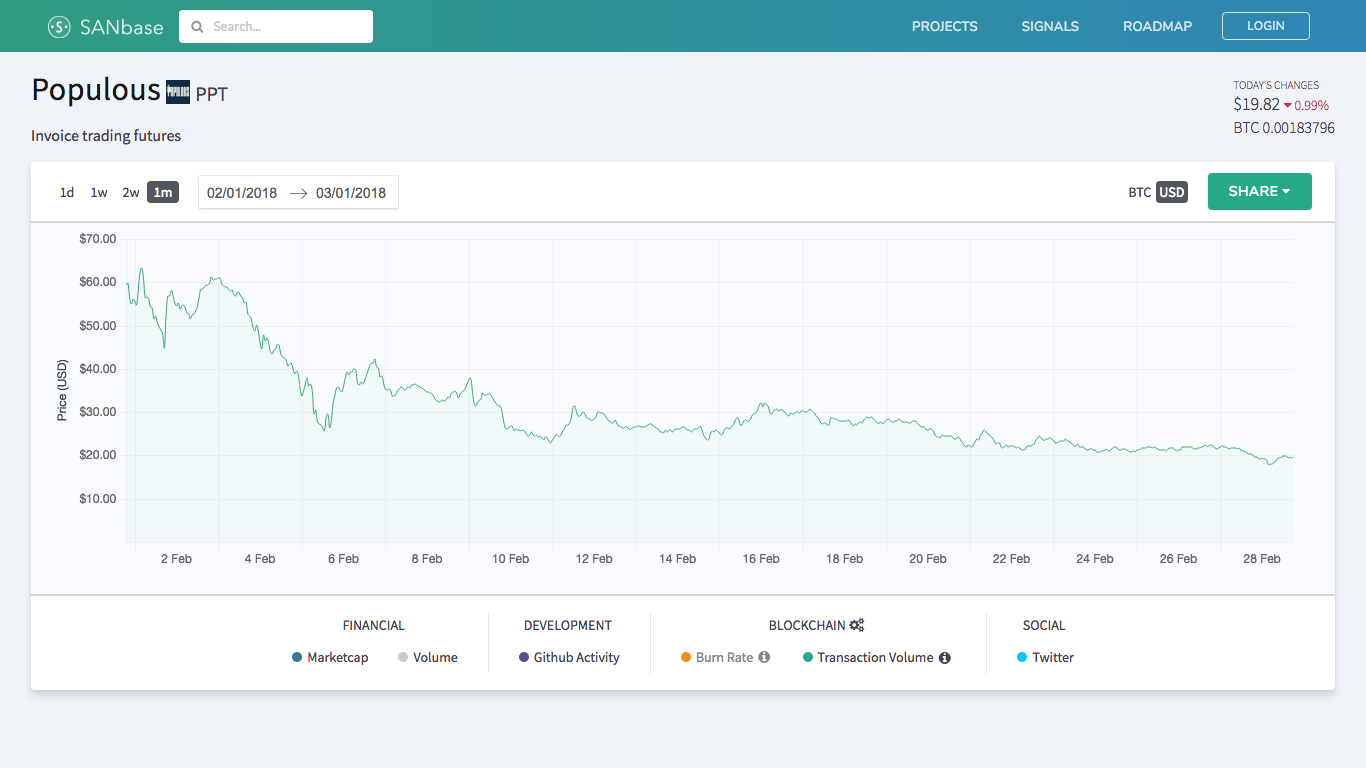
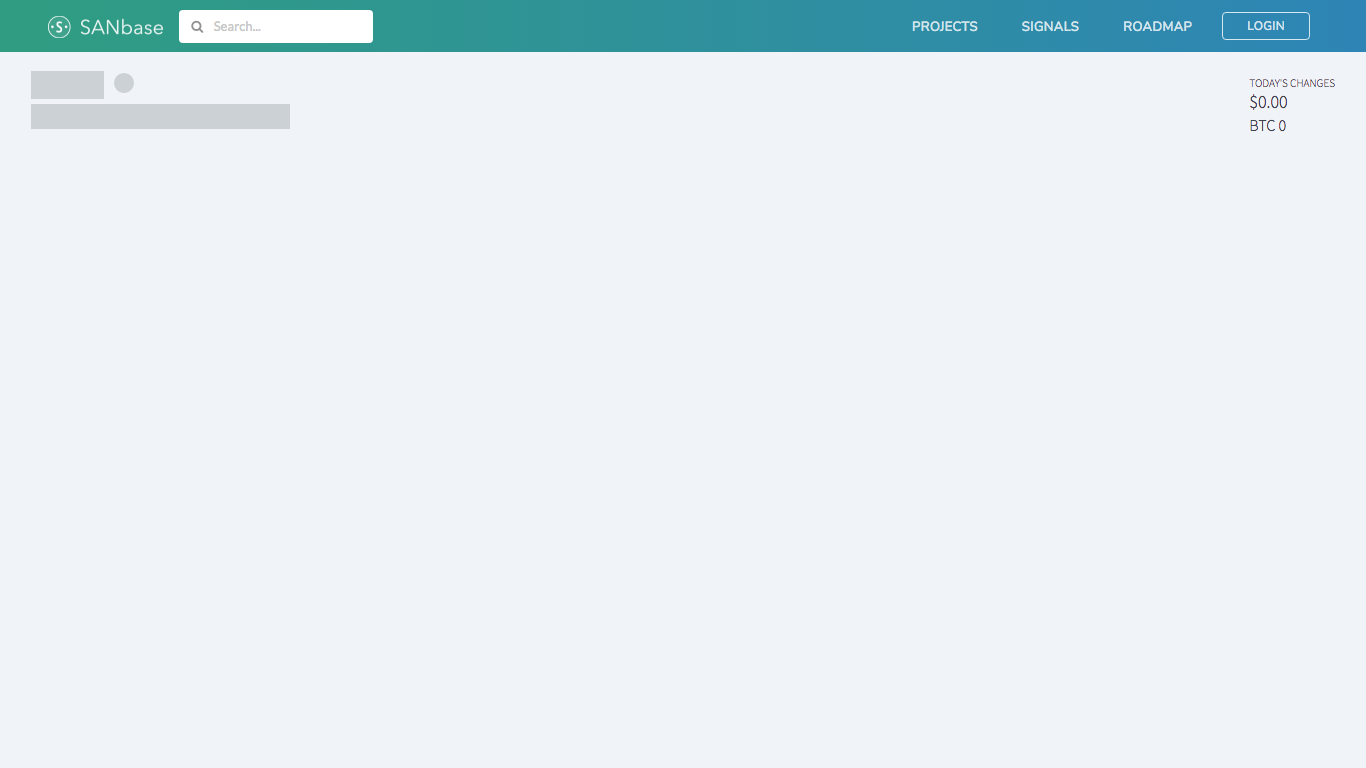
Added skelton loader for detailed page

diff --git a/app/src/pages/Detailed/Detailed.js b/app/src/pages/Detailed/Detailed.js
@@ -6,21 +6,17 @@ import {
   withState
 } from 'recompose'
 import moment from 'moment'
-import { FadeIn } from 'animate-components'
 import { Redirect } from 'react-router-dom'
 import { graphql, withApollo } from 'react-apollo'
-import ProjectIcon from './../../components/ProjectIcon'
 import PanelBlock from './../../components/PanelBlock'
 import GeneralInfoBlock from './../../components/GeneralInfoBlock'
 import FinancialsBlock from './../../components/FinancialsBlock'
 import ProjectChartContainer from './../../components/ProjectChart/ProjectChartContainer'
 import Panel from './../../components/Panel'
 import Search from './../../components/SearchContainer'
-import PercentChanges from './../../components/PercentChanges'
-import PageLoader from './../../components/PageLoader'
-import { formatNumber, formatBTC } from '../../utils/formatting'
 import { calculateBTCVolume, calculateBTCMarketcap } from '../../utils/utils'
 import allProjectsGQL from './../Projects/allProjectsGQL'
+import DetailedHeader from './DetailedHeader'
 import {
   projectGQL,
   queryTwitterData,
@@ -97,11 +93,6 @@ export const Detailed = ({
       }} />
     )
   }
-  if (!project) {
-    return (
-      <PageLoader />
-    )
-  }
 
   const twitter = {
     history: {
@@ -151,60 +142,31 @@ export const Detailed = ({
     items: TransactionVolume.transactionVolume || []
   }
 
-  const projectContainerChart = <ProjectChartContainer
-    routerHistory={history}
-    location={location}
-    isDesktop={isDesktop}
-    twitter={twitter}
-    price={price}
-    github={github}
-    burnRate={burnRate}
-    tokenDecimals={Project.project ? Project.project.tokenDecimals : undefined}
-    transactionVolume={transactionVolume}
-    onDatesChange={(from, to, interval, ticker) => {
-      changeChartVars({
-        from,
-        to,
-        interval,
-        ticker
-      })
-    }}
-    ticker={project.ticker} />
+  const projectContainerChart = project &&
+    <ProjectChartContainer
+      routerHistory={history}
+      location={location}
+      isDesktop={isDesktop}
+      twitter={twitter}
+      price={price}
+      github={github}
+      burnRate={burnRate}
+      tokenDecimals={Project.project ? Project.project.tokenDecimals : undefined}
+      transactionVolume={transactionVolume}
+      onDatesChange={(from, to, interval, ticker) => {
+        changeChartVars({
+          from,
+          to,
+          interval,
+          ticker
+        })
+      }}
+      ticker={project.ticker} />
 
   return (
     <div className='page detailed'>
       {!isDesktop && <Search />}
-      <div className='detailed-head'>
-        <div className='detailed-project-about'>
-          <div className='detailed-name'>
-            <h1>{project.name}</h1>
-            <ProjectIcon
-              name={project.name}
-              size={24} />
-            <div className='detailed-ticker-name'>
-              {project.ticker.toUpperCase()}
-            </div>
-          </div>
-          {(Project.project || {}).description &&
-            <div className='datailed-project-description'>
-              {Project.project.description}
-            </div>}
-        </div>
-
-        {!Project.loading && Project.project.priceUsd &&
-          <div className='detailed-price'>
-            <div className='detailed-price-description'>Today's changes</div>
-            <div className='detailed-price-usd'>
-              {formatNumber(Project.project.priceUsd, 'USD')}&nbsp;
-              {!Project.loading && Project.project &&
-                <PercentChanges changes={Project.project.percentChange24h} />}
-            </div>
-            {Project.project.priceBtc &&
-              <div className='detailed-price-btc'>
-                BTC {formatBTC(parseFloat(Project.project.priceBtc))}
-              </div>}
-          </div>}
-      </div>
+      <DetailedHeader {...Project} />
       {isDesktop
         ? <Panel zero>{projectContainerChart}</Panel>
         : <div>{projectContainerChart}</div>}
@@ -266,7 +228,7 @@ const enhance = compose(
     props: ({Project}) => ({
       Project: {
         loading: Project.loading,
-        empty: !!Project.project,
+        empty: !Project.hasOwnProperty('project'),
         error: Project.error,
         errorMessage: Project.error ? Project.error.message : '',
         project: Project.project

diff --git a/app/src/pages/Detailed/DetailedHeader.js b/app/src/pages/Detailed/DetailedHeader.js
@@ -1,0 +1,58 @@
+import React from 'react'
+import { createSkeletonProvider, createSkeletonElement } from '@trainline/react-skeletor'
+import ProjectIcon from './../../components/ProjectIcon'
+import PercentChanges from './../../components/PercentChanges'
+import { formatNumber, formatBTC } from '../../utils/formatting'
+import './DetailedHeader.css'
+
+const H1 = createSkeletonElement('h1', 'pending-header pending-h1')
+const DIV = createSkeletonElement('div', 'pending-header pending-div')
+
+const DetailedHeader = ({project, loading, empty}) => (
+  <div className='detailed-head'>
+    <div className='detailed-project-about'>
+      <div className='detailed-name'>
+        <H1>{project.name}</H1>
+        <ProjectIcon
+          name={project.name}
+          size={24} />
+        <DIV className='detailed-ticker-name'>
+          {project.ticker.toUpperCase()}
+        </DIV>
+      </div>
+      <DIV className='datailed-project-description'>
+        {project.description}
+      </DIV>
+    </div>
+
+    <div className='detailed-price'>
+      <div className='detailed-price-description'>Today's changes</div>
+      <div className='detailed-price-usd'>
+        {formatNumber(project.priceUsd, 'USD')}&nbsp;
+        {!loading && project &&
+          <PercentChanges changes={project.percentChange24h} />}
+      </div>
+      <div className='detailed-price-btc'>
+        BTC {formatBTC(parseFloat(project.priceBtc))}
+      </div>
+    </div>
+  </div>
+)
+
+export default createSkeletonProvider(
+  {
+    project: {
+      name: '******',
+      description: '______ ___ ______ __ _____ __ ______',
+      ticker: '',
+      percentChange24h: 0,
+      priceBtc: 0,
+      priceUsd: 0
+    }
+  },
+  ({ loading }) => loading,
+  () => ({
+    backgroundColor: '#bdc3c7',
+    color: '#bdc3c7'
+  })
+)(DetailedHeader)

diff --git a/app/src/pages/Detailed/DetailedHeader.css b/app/src/pages/Detailed/DetailedHeader.css
@@ -1,0 +1,39 @@
+@keyframes skeletonAnimation {
+  0% {
+    opacity: 0.8;
+  }
+
+  50% {
+    opacity: 0.4;
+  }
+
+  100% {
+    opacity: 0.8;
+  }
+}
+
+.pending-header {
+  color: white;
+  background-color: white;
+  animation-name: skeletonAnimation;
+  animation-duration: 1.5s;
+  animation-iteration-count: infinite;
+  animation-timing-function: linear;
+}
+
+.detailed-ticker-name.pending-header {
+  margin-bottom: 5px;
+  border-radius: 40px;
+  min-width: 20px;
+  height: 20px;
+}
+
+.datailed-project-description.pending-header.pending-div {
+  margin-top: 5px;
+}
+
+.pending-h1 {
+  height: 1em;
+  font-size: 28px !important;
+  margin-bottom: 5px;
+}

diff --git a/app/src/components/Search.js b/app/src/components/Search.js
@@ -67,7 +67,7 @@ class SearchPanel extends Component {
       <div className='search-panel'>
         <Search
           key={'search'}
-          loading={this.state.isLoading}
+          loading={this.state.isLoading || this.props.loading}
           onResultSelect={this.handleResultSelect}
           onSearchChange={this.handleSearchChange}
           results={this.state.results}

diff --git a/app/src/pages/Detailed/Detailed.css b/app/src/pages/Detailed/Detailed.css
@@ -67,9 +67,7 @@
 }
 
 .detailed-price-btc {
-  display: flex;
   font-size: 16px;
-  justify-content: center;
 }
 
 .detailed-buttons {
@@ -213,10 +211,6 @@
   .detailed-price-usd {
     justify-content: flex-start;
     font-size: 0.8em;
-  }
-
-  .detailed-price-btc {
-    text-align: left;
   }
 
   .detailed-price-description {

diff --git a/app/src/components/SearchContainer.js b/app/src/components/SearchContainer.js
@@ -10,7 +10,13 @@ const SearchContainer = ({
   projects = []
 }) => {
   if (projects.length === 0) {
-    return ('Loading...')
+    return (
+      <Search
+        loading
+        onSelectProject={() => {}}
+        projects={[]}
+      />
+    )
   }
   return (
     <Search
